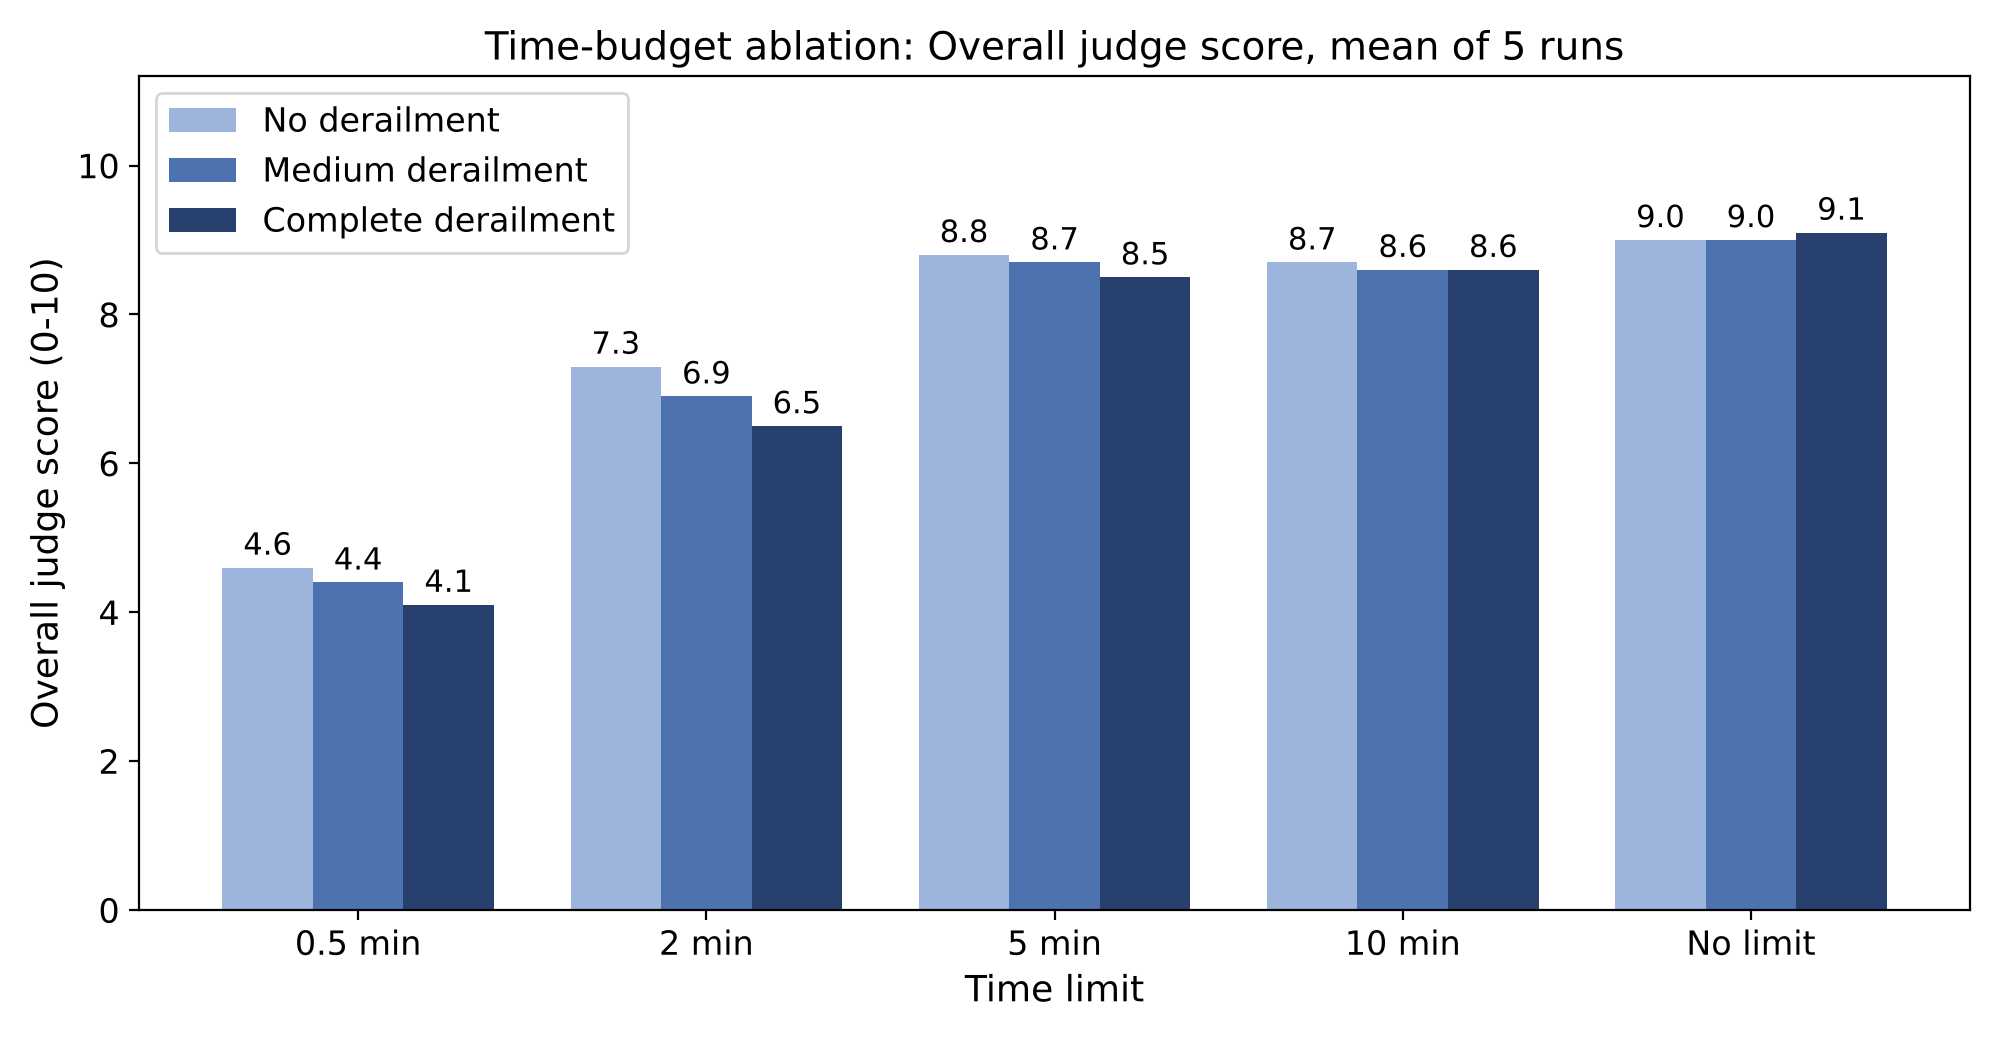
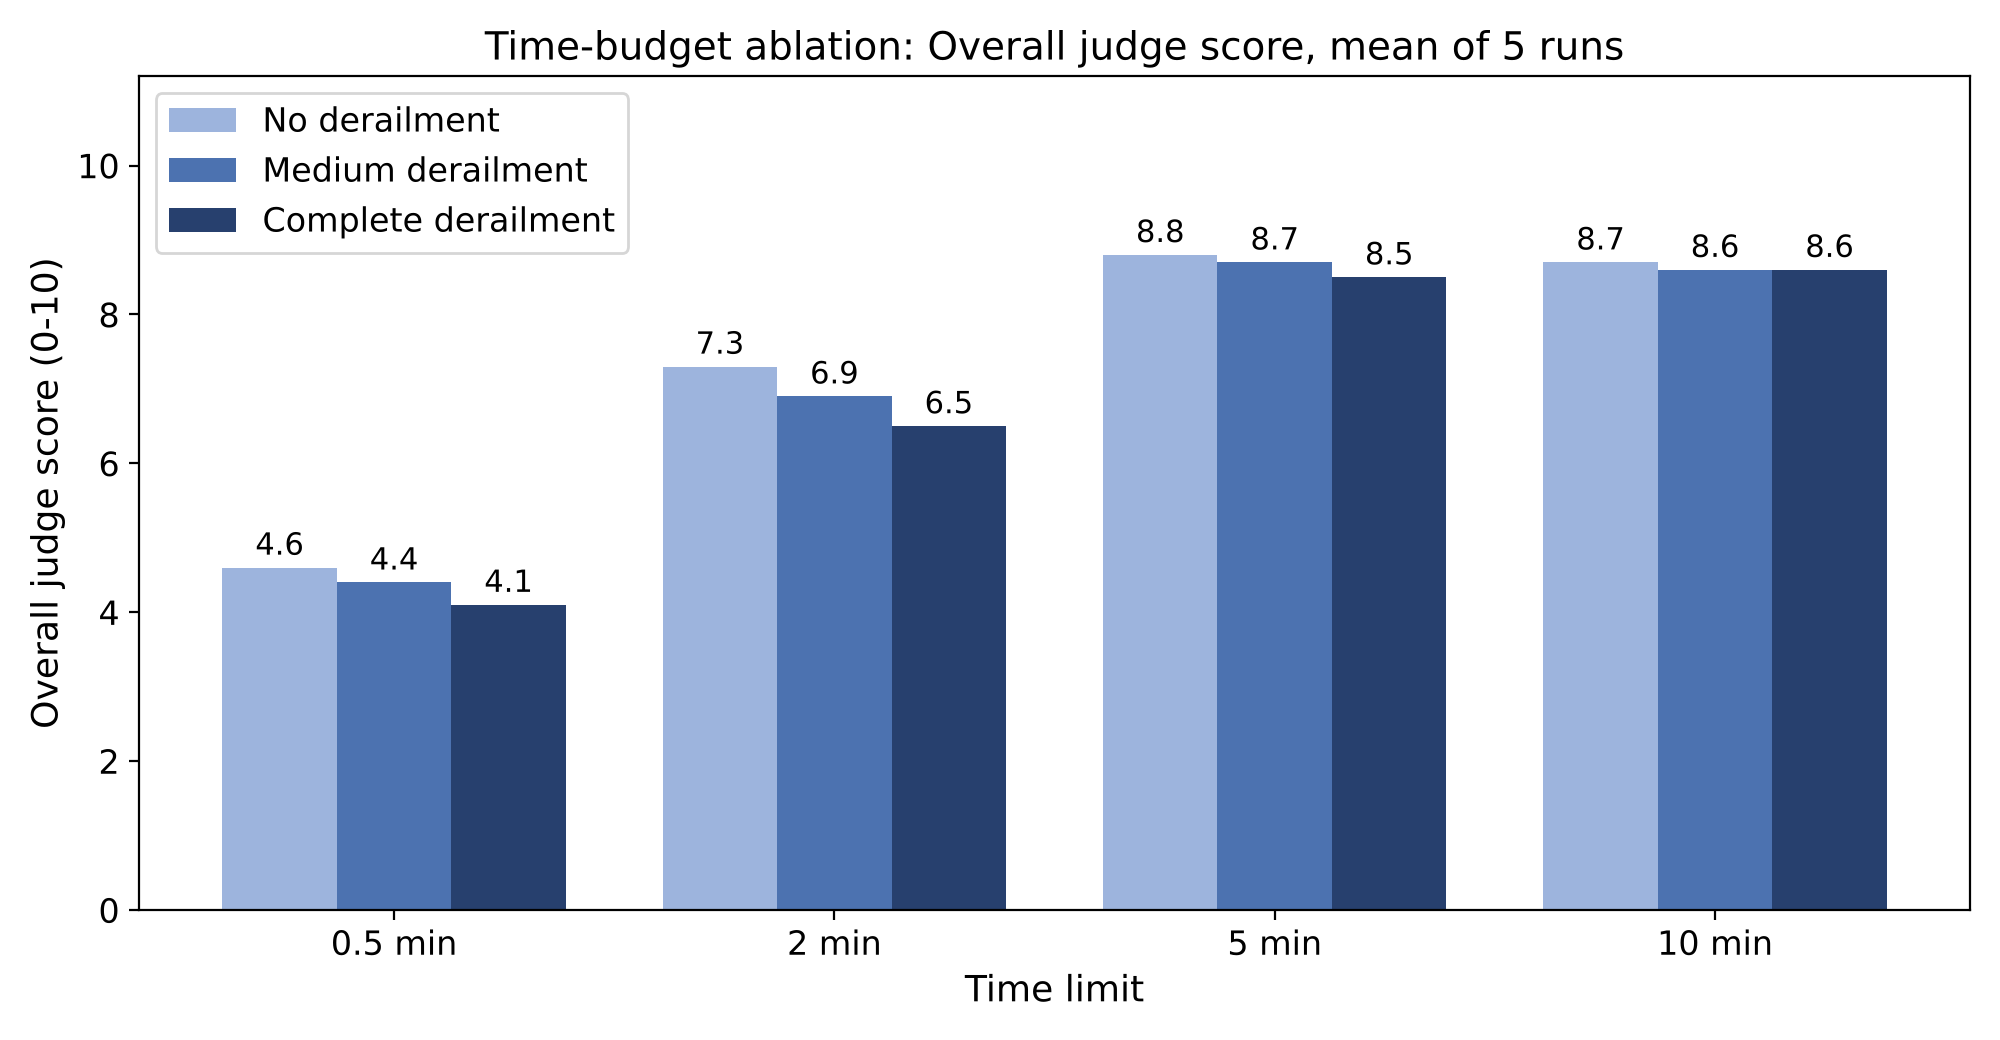
Remove no-limit group from time-budget chart
Claude-Session: https://claude.ai/code/session_01M93oRevghLswnboshza7Lk

diff --git a/latex/tex/results.tex b/latex/tex/results.tex
@@ -567,7 +567,7 @@ No time limit & 8      & 9.00 & 9.00 & 9.10 \\
 \begin{figure}[htbp]
 \centering
 \includegraphics[width=0.95\linewidth]{plots/18_time_budget_ablation.png}
-\caption{Time-budget ablation: Overall judge score by time limit, for the three derailment levels. ``No limit'' is the Director without a time budget.}
+\caption{Time-budget ablation: Overall judge score by time limit, for the three derailment levels.}
 \label{fig:llm-timebudget}
 \end{figure}
 
